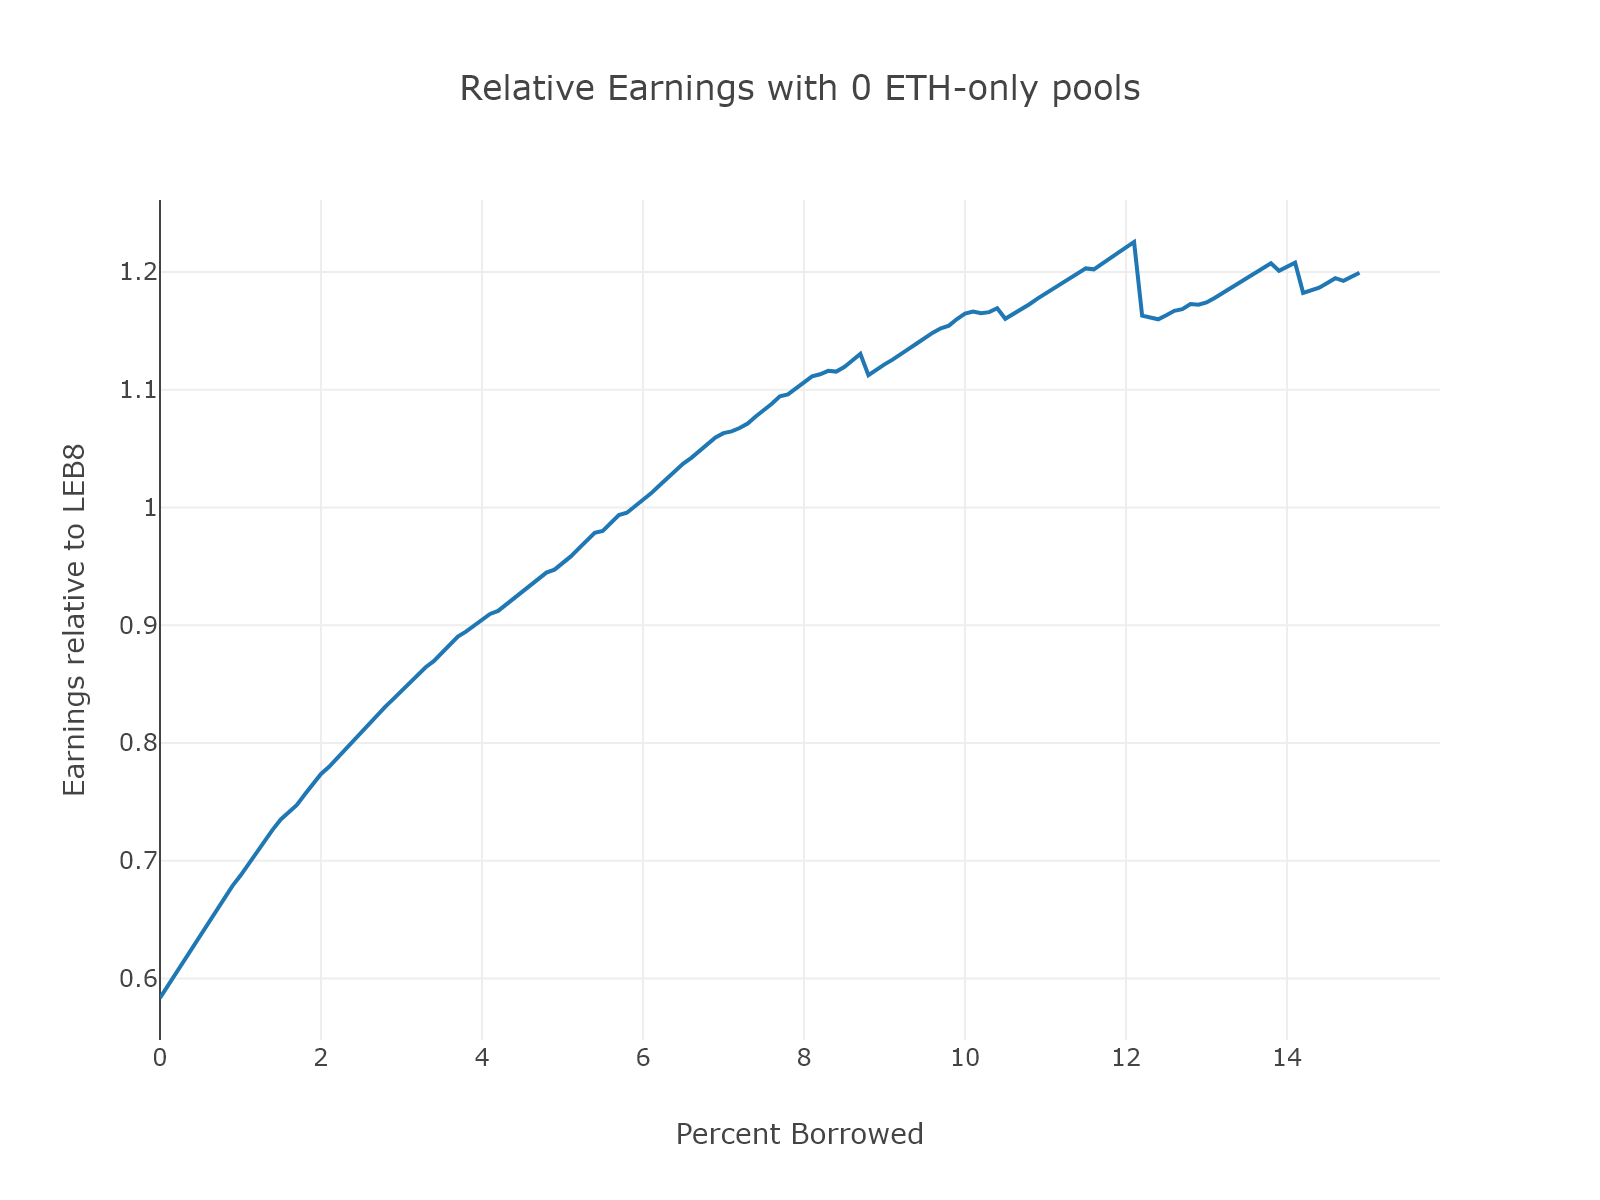
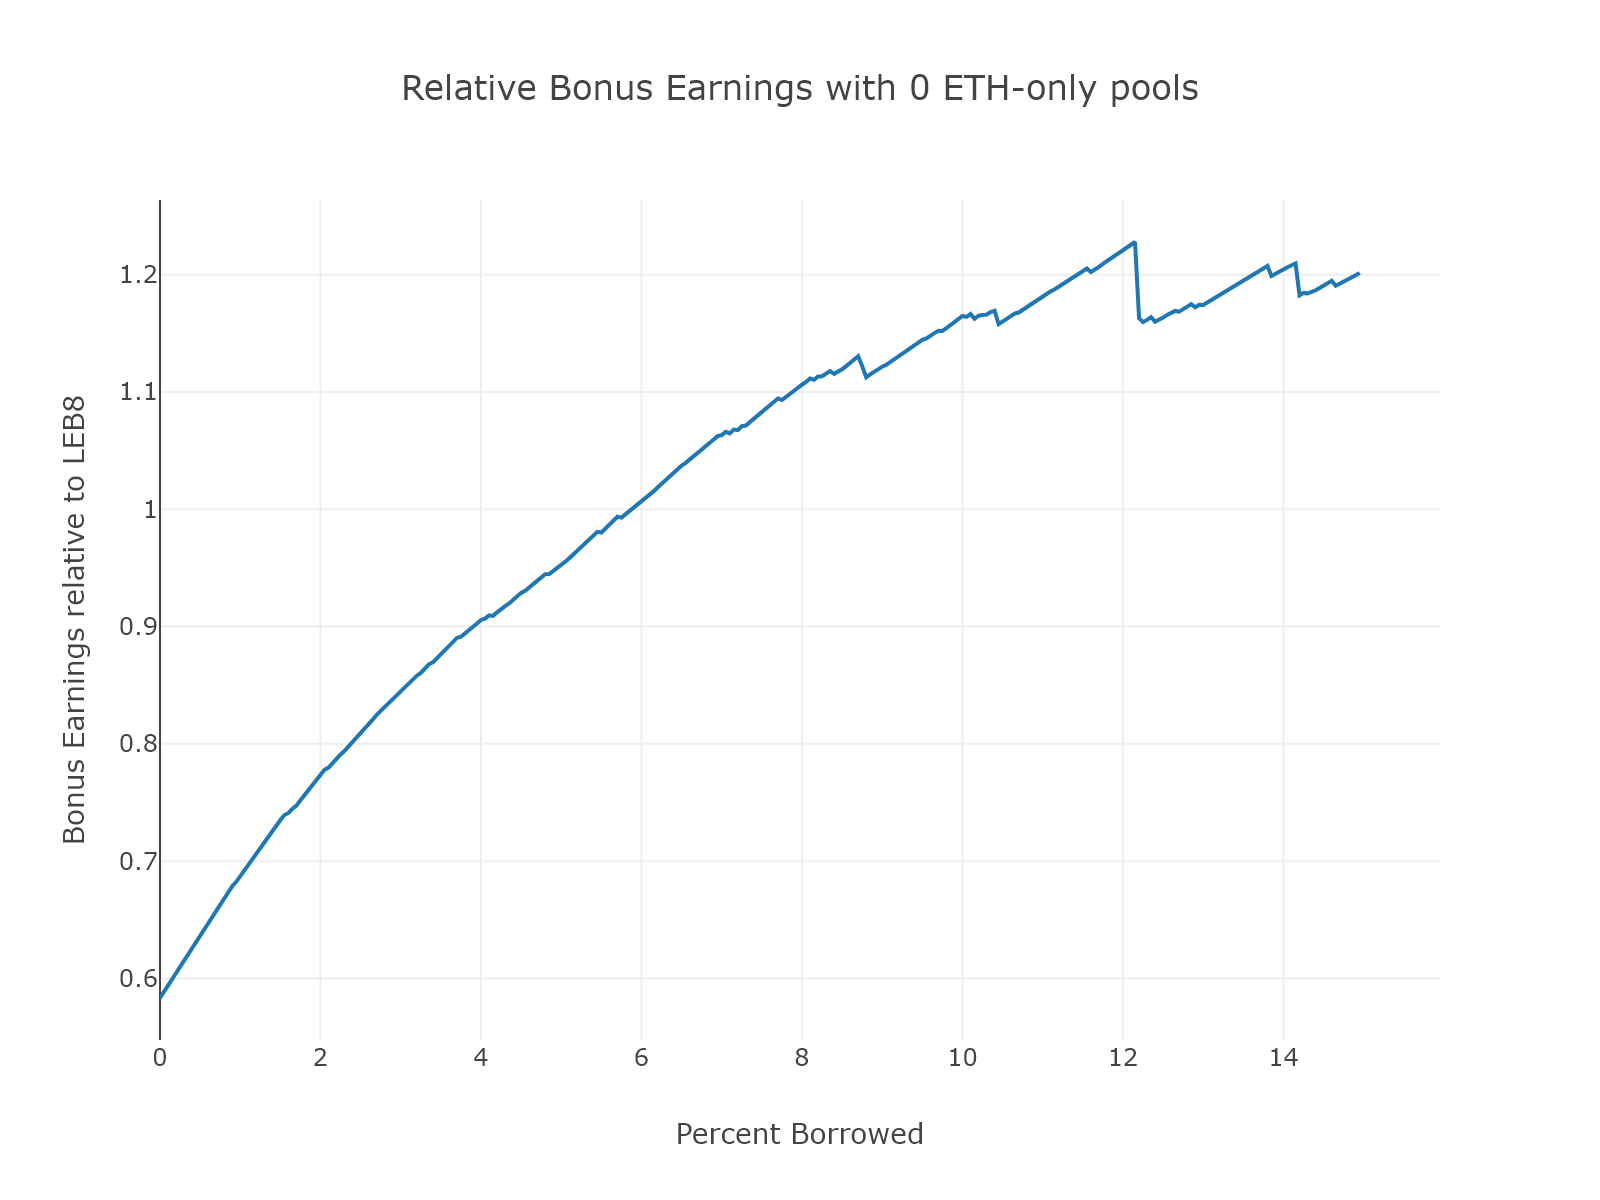
fixed github latex display

diff --git a/analyses/LEB4 profit.py b/analyses/LEB4 profit.py
@@ -19,10 +19,10 @@ rpl_selection = 'staked_rpl_value_in_eth' #could change to 'liquid_rpl_node_valu
 solo_apr = 0.04
 
 # SETTINGS
-voter_share = 0.07
+voter_share = 0.05
 LEB8_comm = 0.14
 NO_comm = 0.035
-ETH_only_pools = 10000  #How many ETH-only pools join the protocol
+ETH_only_pools = 0  #How many ETH-only pools join the protocol
 
 
 #Graph settings
@@ -43,7 +43,7 @@ ETH_only_pools = 10000  #How many ETH-only pools join the protocol
 # ]
 
 
-def plot_data(x_data, y_data:dict, drag_line = None, title = 'Worst Case Earnings for Reducing', x_title = 'Percent Borrowed', y_title = 'Earnings relative to LEB8', renderer = 'png'):
+def plot_data(x_data, y_data:dict, drag_line = None, title = 'Worst Case Earnings for Reducing', x_title = 'Percent Borrowed', y_title = 'Bonus Earnings relative to LEB8', renderer = 'png'):
   """Plotting function using plotly."""
   fig = go.Figure()
   for legend, y in y_data.items():
@@ -96,5 +96,5 @@ for percent_borrowed in np.arange(0, 15, 0.05):
   percent_reduced.append(minipools_reduced / total_minipools)
 
   
-plot_data(percent_borrowed_list, {'Reduced Rewards':reduced_incentive}, title = f'Relative Earnings with {ETH_only_pools} ETH-only pools at 7% voter share')
+plot_data(percent_borrowed_list, {'Reduced Rewards':reduced_incentive}, title = f'Relative Bonus Earnings with {ETH_only_pools} ETH-only pools')
 # plot_data(percent_borrowed_list, {'Fraction Reduced':percent_reduced}, title = 'Minipool Fraction Reduced at Percent', y_title = 'Fraction of Pools')

diff --git a/analyses/LEB4.md b/analyses/LEB4.md
@@ -1,7 +1,7 @@
 # LEB4 Profitability
 
 ## Table of Contents
-1. [Summary](#summary)
+1. [Abstract](#abstrac)
 2. [Goals and Constraints](#goals-and-constraints)
 3. [Results](#results)
     * [Changing Inputs](#changing-inputs)
@@ -11,7 +11,7 @@
 
 
 
-## Summary
+## Abstract
 With the addition of LEB4, ETH-only pools are possible (no RPL stake is required to spin up minipools) and Node Operator commission is being reduced.  RPL stakers also receive a revenue share from all LEB4s based on their staked RPL in megapools - making how profitable running a LEB4 is (as compared to LEB8) a function of your percent borrowed RPL. 
 
 This document is an analysis on how profitable it is to reduce and how the default values for `NO_commission` and `voter_share` were chosen. 
@@ -68,9 +68,12 @@ Similarly, we could change the voter share.  Here are the results.
 
 ## Equations
 
-$LEB8~profitability = 1.42* solo~apr \\
-LEB4~ profitability = \frac{NO~commission * 28 + 4}{4} * solo~apr + \frac{min(\%~borrowed, 150)}{total~LEB4~effective~RPL~staked}*ETH_{voter~share} \\
-ETH_{voter~share} = 28*LEB4~minipools * voter~share * solo~apr$
+$$
+\begin{align}
+LEB8~profitability &= 1.42* solo~apr \\
+LEB4~ profitability &= \frac{NO~commission * 28 + 4}{4} * solo~apr + \frac{min(\%~borrowed, 150)}{total~LEB4~effective~RPL~staked}*ETH_{voter~share} \\
+ETH_{voter~share} &= 28*LEB4~minipools * voter~share * solo~apr
+\end{align}$$
 
 
 ## Assumptions
@@ -95,3 +98,4 @@ If you only look at one graph to understand how your earnings would change with 
 The y-axis is earnings relative to LEB8, with 1 being on par.  Profitability surpasses LEB8 at 5% borrowed, giving everyone above 4% an incentive to reduce.
 
 This assumes that `NO_commission` is set to 3.5%, `voter_share` 5%, 10,000 ETH-only pools join, and everyone with *more* percent RPL borrowed than you also reduces.
+
